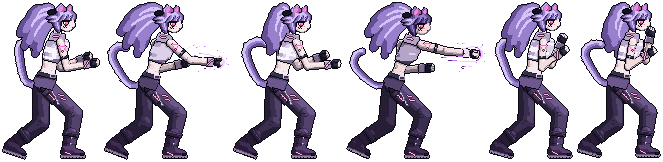
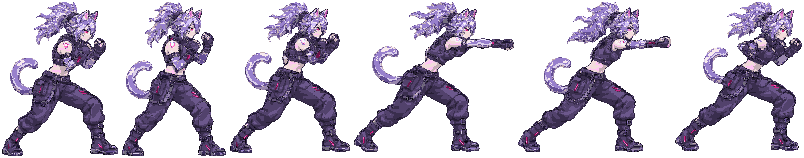
feat(feline) : le direct (standLight) vient de sa planche dessinée
Les 6 frames sont converties depuis Pack_01 (01_Poings, appui → retour en garde),
avec la même réduction par vote majoritaire que la garde, pied arrière fixe.
Les zones éclairées de la table suivent la nouvelle mesure.

Claude-Session: https://claude.ai/code/session_01JBLzLMjZS6VPwWpKajS2YB

diff --git a/src/art/feline/cells.ts b/src/art/feline/cells.ts
@@ -224,29 +224,16 @@ export const FELINE_CELLS: Readonly<Record<string, Cell>> = {
     ],
   },
   standLight: {
-    width: 143,
-    height: 162,
-    anchor: { x: 56, y: 158 },
+    width: 164,
+    height: 158,
+    anchor: { x: 59, y: 155 },
     frames: [
-      { x: 2, y: 2, width: 98, height: 158 },
-      { x: 2, y: 2, width: 125, height: 158 },
-      { x: 2, y: 2, width: 139, height: 157 },
-      { x: 2, y: 2, width: 109, height: 158 },
-      { x: 2, y: 3, width: 84, height: 156 },
-      { x: 2, y: 2, width: 84, height: 157 },
-    ],
-  },
-  'fx/standLight': {
-    width: 27,
-    height: 27,
-    anchor: { x: -64, y: 117 },
-    frames: [
-      { x: 0, y: 0, width: 0, height: 0 },
-      { x: 0, y: 0, width: 0, height: 0 },
-      { x: 2, y: 2, width: 23, height: 23 },
-      { x: 0, y: 0, width: 0, height: 0 },
-      { x: 0, y: 0, width: 0, height: 0 },
-      { x: 0, y: 0, width: 0, height: 0 },
+      { x: 8, y: 2, width: 116, height: 154 },
+      { x: 2, y: 7, width: 127, height: 149 },
+      { x: 2, y: 6, width: 160, height: 150 },
+      { x: 3, y: 6, width: 153, height: 150 },
+      { x: 9, y: 5, width: 120, height: 151 },
+      { x: 9, y: 2, width: 104, height: 154 },
     ],
   },
   standHeavy: {

diff --git a/src/render/live-lights.ts b/src/render/live-lights.ts
@@ -248,8 +248,8 @@ export const FIGHTER_LIGHT_AREAS: Readonly<Record<string, number>> = {
   'watt/alt': 960,
   'koda/main': 990,
   'koda/alt': 760,
-  'feline/main': 795,
-  'feline/alt': 1115,
+  'feline/main': 1100,
+  'feline/alt': 1230,
 };
 
 /** What a fighter of `name` in `colorway` lights at ΔL ≥ 0.1 under a live light, world px². */
